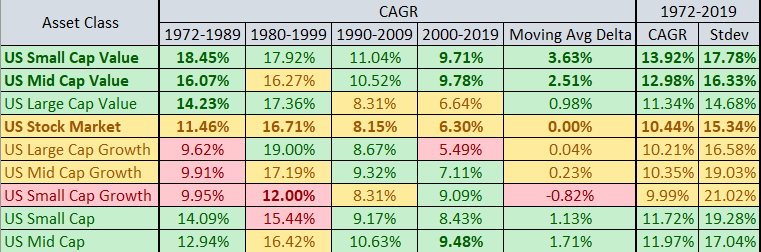
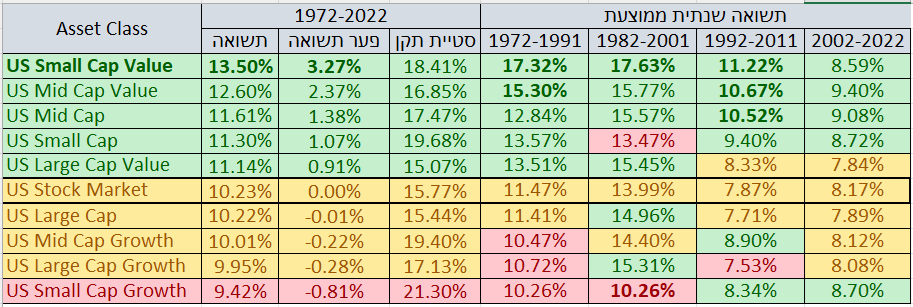
Updated size-and-value-matter blog post

diff --git a/blog/size-and-value-matter.html b/blog/size-and-value-matter.html
@@ -81,51 +81,103 @@
 <div class="coffee-span-12 header">
 <h3 class="heading-1" style="direction: rtl; font-size: 40px;">הגודל כן קובע! (אבל גם הערך חשוב)</h3>
 <br>
-<p class="paragraph" style="font-size:12px;">פורסם בתאריך 21.4.2020, עודכן בתאריך 5.10.2020</p>
+<p class="paragraph" style="font-size:12px;">פורסם בתאריך 21.4.2020, עודכן בתאריך 5.10.2023</p>
 <p class="paragraph" style="font-size:12px;">התכנים בפוסט זה, כמו כל שאר התכנים בבלוג, הינם תכנים לימודיים במהותם, הם אינם מהווים ייעוץ או המלצה לביצוע פעולה בנייר ערך, ואין לראות בהם תחליף לייעוץ השקעות ו/או ייעוץ פנסיוני המתחשב בצרכיו הייחודיים של כל אדם.</p>
-<p class="paragraph">לגרסא עדכנית יותר של הפוסט <a target="_blank" href="https://www.facebook.com/groups/israel.passive.investors/permalink/686012805751777/">לחצו כאן</a>.</p>
-<p class="paragraph">האם פקטור הגודל ופקטור הערך יכולים לייצר לנו תשואות עודפות לאורך זמן על פני תשואת כלל השוק? בקצרה כן, אבל בתנאים מסוימים. המשיכו לקרוא לקבלת התמונה המלאה.</p>
-<p class="paragraph" style="font-size:22px;">קצת רקע על פקטור הגודל והערך והאם הם עדיין רלוונטיים</p>
-<p class="paragraph">רבות דובר על תחום הפקטורים והנושא נידון בין היתר <a target="_blank" href="https://www.hasolidit.com/%D7%97%D7%A9%D7%99%D7%A4%D7%94-%D7%9C%D7%A4%D7%A7%D7%98%D7%95%D7%A8%D7%99%D7%9D-%D7%94%D7%A1%D7%95%D7%93-%D7%9C%D7%94%D7%A9%D7%91%D7%97%D7%AA-%D7%94%D7%AA%D7%A9%D7%95%D7%90%D7%94">אצל הסולידית</a>, <a target="_blank" href="https://www.youtube.com/watch?v=2MVSsVi1_e4">אצל Ben Felix</a> ואחרים. הפקטורים הם פרמטרים ייחודיים המבחינים קבוצות מניות מסוימות, ולאורך השנים נבחנו אותן קבוצות מניות אל מול מדד השוק הכולל (Weighted Average Total Market), ובחנו את התשואה והסיכון שלהם לטווח הארוך. שני הפקטורים הידועים הם פקטור הגודל והערך, ששנים ארוכות של סטטיסטיקה הראו <b>תשואה עודפת באופן מובהק סטטיסטית</b> לשני הפקטורים האלה על פני תשואת כלל השוק. בעבר חשבו שהם מייצרים alpha, כלומר תוספת תשואה "בחינם", אך מחקרי המשך גילו כי אין ארוחות חינם, <b>והתשואה העודפת מגיעה בעקבות סיכון גבוה יותר</b> (כאשר משקיעים בפיזור רחב באותם פקטורים, הכוונה במילה "סיכון" היא לתנודתיות גבוהה יותר, אבל לא לחשש מאובדן מוחלט של הכסף).</p>
-<p class="paragraph"><b>פקטור ה-size</b> מוגדר בספרות האקדמית כ-SMB (Small Minus Big) והוא מראה שמניות קטנות (בעלות שווי שוק נמוך) משיגות תשואה גבוהה יותר לטווח הארוך ממניות גדולות (בעלות שווי שוק גבוה).</p>
-<p class="paragraph"><b>פקטור הערך</b> מוגדר בספרות האקדמית כ-HML (High Minus Low) והוא מגדיר כי חברות שהרווחיות שלהן בספרים גבוהה ביחס למחירן הנוכחי (זה בעצם יחס הפוך למדדים כמו price/earnings, price/book ואחרים, כלומר מכפילים נמוכים), משיגות תשואות גבוהות יותר לטווח הארוך ממניות עם יחס נמוך בין הרווחיות למחיר המניה (כלומר מכפילים גבוהים). אחת הסיבות לכך היא במשקל העודף שהציבור והמשקיעים המוסדיים נותנים לחברות הגדולות והמגניבות, ונוטים להעריך בחסר מניות שפחות מציתות את הדמיון.</p>
-<p class="paragraph">המניות "ההפוכות" למניות ערך מוגדרות כמניות צמיחה (Growth) – כלומר מניות שצופים עבורן צמיחה גבוהה מהממוצע. בעצם לא מדובר פה בדיוק על הפכים מוחלטים (כמו מניות גדולות מול קטנות), אלא יש כל מיני מאפיינים שאופייניים למניות צמיחה ומאפיינים שאופייניים למניות ערך. בגלל המצב הזה יש כאן הרבה מקום לשיקול דעת – אילו מאפיינים לקחת, איזה משקל נותנים לכל אחד, כמה אחורה מודדים אותם (למשל האם למדוד את ה-price/earnings בשנה האחרונה, ב-3 שנים האחרונות או ב-5 שנים האחרונות וכו'). כשיש מקום לשיקול דעת, עצם החלוקה בין סוגי המניות נכנס למחוזות ההשקעה האקטיבית. יחד עם זאת, קיימים מדדים וקרנות של מניות ערך או מניות צמיחה, אשר הגדירו <b>נוסחא</b> לניקוד כל מניה לפי מאפייני ה-Value/Growth ומיינו אותן על ציר. כך ניתן להפריד אוטומטית, וללא שיקול דעת, בין המניות שהן מניות ערך מובהקות, לבין מניות שהן מניות צמיחה מובהקות, ולבין מניות שהן לא מובהקות לשום כיוון. כשיש נוסחא וכללים ברורים, ואין שיקול דעת למנהל הקרן, זו בעצם השקעה פאסיבית לכל דבר ועניין.</p>
-<p class="paragraph">כמובן שניתן להגדיר את הנוסחא בדרכים אחרות (למשל להקצות משקלות שונים לפרמטרים), אבל גם אם שתי קרנות/שני מדדים יגדירו נוסחאות שונות, שמצידן יגדירו חלוקה קצת שונה של המניות לקבוצות, סביר להניח שהחלוקה תהיה מאוד קרובה, ובפיזור על פני מאות/אלפי מניות אין לכך כמעט משמעות – שני המדדים/הקרנות צפויים להשיג תשואה כמעט זהה לאורך זמן.</p>
-<p class="paragraph">מקובל לומר שמדדי מניות רחבים כוללים שילוב (Blend) של מניות ערך ומניות צמיחה, בחלוקה שווה פחות או יותר. המשקל של מניות קטנות במדדים הרחבים הוא פחות מ-10%, בגלל שהמדדים בנויים לפי שווי שוק ונותנים משקל גבוה מאוד למניות עם שווי השוק הגדול. שני הפקטורים הללו מגדירים את החלוקה המקובלת ל-Asset Classes, לפי ה-Grid המתייחס לציר ה-Market Cap (Large, Medium, Small) ולציר ה-Style (Value/Growth/Blend). נוכל לקחת כדוגמא את ה-Grid של הקרן הפופולרית VT, שעוקבת אחרי מדד FTSE Global All Cap Index, שמהווה one stop shop לכל העולם כולו (כל השווקים – מפותחים ומתפתחים כאחד, מניות בכל הגדלים, ושילוב של מניות צמיחה ומניות ערך).</p>
-<p class="paragraph">בציר ה-Style יש לנו Blend ובציר ה-Market Cap מסומן Large, מהסיבה הפשוטה שהמניות הגדולות מקבלות את מרבית המשקל (כ-80%) במדדים שכוללים מניות מכל הגדלים (ועוד בערך 10% למניות בינוניות ו-10% נוספים למניות קטנות).</p>
+<br>
+<p class="paragraph">איך נוכל להגדיל את תשואת התיק לטווח הארוך באופן פאסיבי, מושכל, ומבוסס על נתונים? השימוש בפקטורים הוא עיקרון חשוב בתכנון התיק שלנו, והוא מאפשר לנו להגדיל את הסיכון באופן מושכל, כך שבסבירות גבוהה מאוד נגדיל גם את התשואה.</p>
+<p class="paragraph" style="text-align: center;"><img src="../images/Airbaoon.jpg" alt="Airbaoons"></p>
+<br>
+<p class="paragraph" style="font-size:22px;">מה זה בכלל פקטורים?</p>
+<p class="paragraph">פקטורים הם מאפיינים ייחודיים שמאפשרים להבחין בין קבוצות של מניות מסוגים שונים. לאורך השנים חוקרים באקדמיה בחנו 🧐 קבוצות מניות מסוגים שונים והשוו בין התשואות והתנודתיות שלהן 📊, ובפרט בין הקבוצות השונות אל מול שוק המניות הכולל 🌍.</p>
+<p class="paragraph">שני הפקטורים המשמעותיים ביותר שהתגלו (ע"י זוכי פרס נובל יו'גין פאמה וקנט פרנץ') הם <b>פקטור הגודל (size) ופקטור הערך (value)</b>. מה כ"כ מיוחד בהם? שנים ארוכות של סטטיסטיקה הראו ששני הפקטורים האלה מייצרים <b>תשואה עודפת באופן מובהק סטטיסטית בהשוואה לתשואת כלל השוק</b>.</p>
+<p class="paragraph">בעבר חשבו שהפקטורים האלה מייצרים alpha, כלומר תוספת תשואה עודפת "בחינם". אך מחקרי המשך גילו, כצפוי, שאין ארוחות חינם 🍝, והתשואה העודפת מגיעה יחד עם תנודתיות גבוהה יותר.</p>
+<br>
+<p class="paragraph" style="font-size:22px;">האם מניות קטנות רווחיות יותר ממניות גדולות?</p>
+<p class="paragraph"><b>פקטור הגודל</b> מוגדר בספרות האקדמית כ-Small Minus Big (SMB). הנתונים הסטטיסטיים מראים שסגמנט המניות הקטנות 🤏 (בעלות שווי שוק נמוך) משיג <b>תשואה גבוהה יותר</b> לטווח הארוך מסגמנט המניות הגדולות (בעלות שווי שוק גבוה). זה לא קורה בכל שנה ושנה, וגם לא בכל עשור, אבל זה כן קורה רוב הזמן, ובמיוחד אם מסתכלים על פרק זמן מספיק ארוך.</p>
+<br>
+<p class="paragraph" style="font-size:22px;">למה מניות קטנות רווחיות יותר ממניות גדולות ומה זה אומר לגבי העתיד?</p>
+<p class="paragraph">כדי להסיק מסקנה ע"ס סטטיסטיקה יש להתייחס לשני גורמים:</p>
+<p class="paragraph">1.	נתונים סטטיסטיים ארוכי טווח שתומכים במסקנה.</p>
+<p class="paragraph">2.	הסבר תיאורטי מוצק שמניח את הדעת.</p>
+<p class="paragraph">נתונים סטטיסטיים בלבד לא מספיקים – אם למשל נגלה שסגמנט המניות שמתחילות באות B היה רווחי יותר מכל שאר המניות באופן מובהק סטטיסטית במשך 80 שנה, האם יש סיבה להאמין שזה ימשיך גם בעתיד ולעבור להשקיע רק במניות שמתחילות באות B? כמובן שלא, מדובר בעניין מקרי לחלוטין!</p>
+<p class="paragraph">לעומת זאת, ההנחה שסגמנט המניות הקטנות ימשיך להניב תשואה גבוהה יותר מסגמנט המניות הגדולות עונה על שני הגורמים – יש גם נתונים סטטיסטיים תומכים, וגם הסבר תיאורטי מניח את הדעת:</p>
+<p class="paragraph">1.	כאמור, נתונים סטטיסטיים של עשרות שנים מראים תשואה עודפת באופן מובהק סטטיסטית של המניות הקטנות מול המניות הגדולות (פרטים בהמשך).</p>
+<p class="paragraph">2.	ההסבר התיאורטי למה מניות קטנות רווחיות יותר ממניות גדולות הוא די ברור – יש להן יותר לאן לצמוח!  כלומר קצב הצמיחה של חברות קטנות גבוה מזה של חברות גדולות ומבוססות. זה כמובן לא אומר שכל מניה קטנה תהיה רווחית יותר מכל מניה גדולה. טווח התוצאות האפשרי לכל מניה פרטנית הוא עצום – מעליות של אלפי אחוזים ועד קריסה ל-0 ופשיטת רגל. ככה שהכלל מתייחס רק לסגמנט הכולל של מניות קטנות מול הסגמנט הכולל של המניות הגדולות.</p>
+<p class="paragraph">אז אמנם אף אחד לא יודע מה יהיה בעתיד, אבל ניתן להניח שבסבירות גבוהה סגמנט המניות הקטנות ימשיך להוביל בתשואות גם בעתיד.</p>
+<br>
+<p class="paragraph" style="font-size:22px;">האם מניות זולות רווחיות יותר ממניות יקרות?</p>
+<p class="paragraph"><b>פקטור הערך (value)</b> מוגדר בספרות האקדמית כ-High Minus Low (HML). הנתונים הסטטיסטיים מראים שסגמנט המניות ה"זולות" משיג תשואה גבוהה יותר לטווח הארוך ממניות "יקרות".</p>
+<p class="paragraph">מניות זולות, המכונות גם <b>מניות ערך</b> (value stocks), מוגדרות ככאלה שמחירן הנוכחי בבורסה נמוך ביחס לרווחיות שלהן בספרים. היחס הזה נמדד בין היתר באמצעות מכפילים כגון price/earnings, price/book ופרמטרים אחרים, כאשר המניות הזולות מתאפיינות ב<b>מכפילים נמוכים</b>.</p>
+<p class="paragraph">המניות ההפוכות למניות ערך מוגדרות כ<b>מניות צמיחה</b> (growth stocks). הן נחשבות כיקרות ומתאפיינות ב<b>מכפילים גבוהים</b>.</p>
+<p class="paragraph">בעצם לא מדובר בהפכים מוחלטים 🔁. ההגדרה למניות צמיחה היא מניות שצופים להן צמיחה גבוהה. כיוון שאותן חברות הראו צמיחה גבוהה בעבר 📈, צופים להן המשך צמיחה גבוהה <b>בעתיד</b>, וכאשר הצפי מחברה מסוימת הוא לצמיחה גבוהה בעתיד – המשקיעים מוכנים לשלם מחיר גבוה יותר על המניה שלה כבר היום, מה שמייקר את מחיר המניה <b>בהווה</b>. זאת הסיבה שמניות צמיחה נחשבות "יקרות" ומתאפיינות במחירים גבוהים ביחס לרווחיות האמיתית של החברות.</p>
+<br>
+<p class="paragraph" style="font-size:22px;">איך מחלקים בין מניות ערך למניות צמיחה?</p>
+<p class="paragraph">ישנם כל מיני מאפיינים למניות צמיחה ומאפיינים למניות ערך, והרבה מקום לשיקול דעת – על אילו מאפיינים להסתמך, איזה משקל לתת לכל מאפיין, כמה אחורה מודדים (למשל האם למדוד את ה-price/earnings בשנה האחרונה, ב-3 שנים האחרונות או ב-5 שנים האחרונות וכו'). כשיש מקום לשיקול דעת, עצם החלוקה בין סוגי המניות נכנס למחוזות ההשקעה האקטיבית.</p>
+<p class="paragraph">יחד עם זאת, קיימים <b>מדדים של מניות ערך ומדדים של מניות צמיחה</b>, אשר הגדירו <b>נוסחה</b> לניקוד כל מניה לפי מאפייני ה-Value/Growth ומיינו אותן על ציר. כך ניתן להפריד אוטומטית, וללא שיקול דעת של מנהל השקעות, בין המניות שהן מניות ערך מובהקות, לבין מניות שהן מניות צמיחה מובהקות, ולבין מניות שהן לא מובהקות לשום כיוון. כשיש נוסחה וכללים ברורים, ואין שיקול דעת למנהל הקרן, זו בעצם השקעה פאסיבית לכל דבר ועניין.</p>
+<br>
+<p class="paragraph" style="font-size:22px;"></p>
+<p class="paragraph">כאמור הנתונים הסטטיסטיים מראים תשואה עודפת של המניות הזולות (מניות ערך) מול המניות היקרות (מניות צמיחה). אבל אמרנו שלא מספיק להסתמך רק על הסטטיסטיקה וצריך להיות גם הסבר תיאורטי מוצק.</p>
+<p class="paragraph">ההסבר התיאורטי לעדיפות בתשואות של מניות ערך מסתמך על העיקרון ש:</p>
+<p class="paragraph" style="text-align: center;">Higher Valuations --> Lower Expected Returns</p>
+<p class="paragraph" style="text-align: center;">Lower Valuations --> Higher Expected Returns</p>
+<p class="paragraph">ובתרגום חופשי – כאשר מחיר המניה גבוה בהווה, הצפי הוא לתשואות נמוכות יותר בעתיד, וההיפך – כאשר מחיר המניה נמוך בהווה הצפי הוא לתשואות גבוהות יותר בעתיד.</p>
+<p class="paragraph">מניות הצמיחה אמנם הציגו צמיחה גבוהה בעבר, ובהחלט יכול להיות שביצועי חברות הצמיחה יהיו טובים מאוד גם בעתיד. אבל פעמים רבות קורה שהמחיר של מניית צמיחה קפץ כ"כ הרבה בגלל הציפיות לעתיד, עד שנוצר <b>נתק בין ביצועי החברה בפועל למחיר המניה, והמניה מתומחרת יותר מדי גבוה</b>.</p>
+<p class="paragraph">חשוב להבין ש<b>החברה והמניה זה לא אותו דבר</b>. כשנוצר נתק בין ביצועי החברה למחיר המניה, גם ביצועים טובים של <b>החברה</b>, לא מעידים בהכרח על ביצועים טובים של <b>המניה</b>. החברה יכולה להמשיך להרוויח ולצמוח, אבל מניית החברה תדשדש ואף תרד.</p>
+<p class="paragraph">אותו עיקרון, רק הפוך, פועל על מניות ערך. מניות ערך מתומחרות בזול מסיבה מסוימת, ככל הנראה בגלל קשיים ובעיות שמשפיעים על החברה, ולכן הן נחשבות להשקעה מסוכנת יותר. אבל יכול להיות שגם במקרה הזה נוצר <b>נתק בין ביצועי החברה בפועל למחיר המניה, והמניה מתומחרת נמוך מדי</b>, כלומר השוק מעריך את הקשיים של החברה יתר על המידה, וביצועי המניה בעתיד יהיו טובים יותר מהצפי של השוק. גם אם הביצועים של החברה בפועל לא יהיו מזהירים, ביצועי המניה יכולים להיות טובים מאוד, כיוון שביצועי החברה בפועל היו גבוהים מהציפיות.</p>
+<p class="paragraph">אחת הסיבות לכך שנוצר תמחור גבוה מדי למניות צמיחה ונמוך מדי למניות ערך, היא בגלל התלהבות גבוהה ולעיתים מוגזמת של המשקיעים מחברות הצמיחה המגניבות 😎, שהן לרוב חברות טכנולוגיה מוכרות ופופולריות, ומנגד המשקיעים נוטים להתעלם ואף לזלזל במניות "משעממות" 🥱 שפחות מציתות את הדמיון.</p>
+<p class="paragraph">אבל כמשקיעים הפופולריות של המניות לא צריכה לעניין אותנו יותר מדי. עדיף לנו לקנות בזול מניה של חברה שהיא רק "בסדר" מאשר לשלם מחיר מאוד גבוה על החברה הטובה ביותר בעולם.</p>
+<p class="paragraph">גם במקרה של מניות ערך מול מניות צמיחה – לא ניתן להגיד שום דבר על מניית צמיחה ספציפית מול מניית ערך ספציפית. אבל כשמסתכלים על כל מניות הערך כמכלול מול כל מניות הצמיחה כמכלול – אז רוב הזמן, ובמיוחד לטווח הארוך, התשואות של מניות הערך היו עדיפות על התשואות של מניות הצמיחה, וסביר מאוד להניח שכך יקרה גם בעתיד.</p>
+<br>
+<p class="paragraph" style="font-size:22px;">ציר ה-Market Cap וציר ה-Style</p>
+<p class="paragraph">שוק המניות העולמי כולל את כל המניות מכל הסוגים – מניות גדולות, בינוניות וקטנות, ושילוב (Blend) של מניות ערך ומניות צמיחה.</p>
+<p class="paragraph">החלוקה בין מניות גדולות-בינוניות-קטנות ובין מניות ערך למניות צמיחה משתנה בין חברות המדדים השונות (S&P, FTSE, MSCI). יחד עם זאת ההבדלים באופן החלוקה לא מאוד גדולים, וניתן לציין ש:</p>
+<p class="paragraph">•	המניות הגדולות תופסות כ-70% מכלל השוק. זה קורה בגלל שהמדדים בנויים לפי שווי שוק, ככה שהחברות הגדולות יותר תופסות נתח גבוה יותר מהמדד.</p>
+<p class="paragraph">•	המניות הבינוניות תופסות כ-15% מכלל השוק.</p>
+<p class="paragraph">•	המניות הקטנות תופסות אף הן כ-15% מכלל השוק.</p>
+<p class="paragraph">•	החלוקה בין מניות ערך לבין מניות צמיחה היא בערך חצי-חצי, ויש גם מניות שלא מאוד מובהקות לכיוון של ערך או צמיחה.</p>
+<p class="paragraph">מקובל לחלק את שוק המניות לתתי אפיקים שונים (Asset Classes) באמצעות <b>טבלת Style box של 3x3</b>. הטבלה הזאת מוצגת פעמים רבות בהקשר של מדדים וקרנות עוקבות מדדים.</p>
+<p class="paragraph">הציר האנכי של הטבלה הוא ציר ה-Market Cap, כלומר שווי השוק, והוא מתחלק ל-Large, Medium, Small. הציר האופקי הוא ציר ה-Style, כלומר סוג המניות, והוא מתחלק ל-Value, Blend, Growth, שהן מניות ערך, מניות צמיחה, ו-Blend שהוא השילוב ביניהם.</p>
 <p class="paragraph" style="text-align: center;"><img src="../images/style-cap-grid.png" alt="style-cap-grid"></p>
-<p class="paragraph" style="font-size:22px;">מה היתרון לפקטור הגודל והערך לאורך השנים, ובפרט בתקופה האחרונה</p>
-<p class="paragraph">המידע על הפקטורים האלה כולל <a target="_blank" href="https://earlyretirementnow.com/2019/06/12/my-thoughts-on-small-cap-and-value-stocks/">סטטיסטיקה ארוכה של כמעט 100 שנה</a> (בשוק האמריקאי בלבד, יש סטטיסטיקה הרבה יותר קצרה בשוק הגלובלי – עוד על כך בהמשך), והנתונים מראים יתרון של 1.9% אחוז לשנה לפקטור הגודל, ו-3.7% לשנה לפקטור הערך. יחד עם זאת, ב-35 השנים האחרונות לא היה הבדל בין מניות גדולות לקטנות, וב-14 השנים האחרונות מניות הערך דווקא פיגרו אחרי מניות הצמיחה בכ-3.6%.</p>
-<p class="paragraph" style="text-align: center;"><img src="https://i2.wp.com/earlyretirementnow.com/wp-content/uploads/2019/06/ValueSizePremium-Table02.png?w=738&ssl=1" alt="factor stats"></p>
-<p class="paragraph">רבים טוענים שהסיבה לביצועי החסר של מניות הערך, או לכך שכבר זמן רב אין תשואה עודפת למניות קטנות על פני הגדולות, היא שמאז שפורסמו מחקרים בנושא ומשקיעים הפכו להיות מודעים אליהם, אז הפרמיה שלהם על כלל השוק כבר לא קיימת, או לפחות לא צפויה להיות גבוהה כבעבר, וזה אכן תרחיש אפשרי. <a target="_blank" href="https://www.youtube.com/watch?v=kYO7xrHhqsY">בן פליקס למשל לא מסכים עם הקביעה הזו</a>, ומציין שכמו שבעבר היו תקופות ארוכות שתשואת האג"חים היתה גבוהה מהמניות, כך גם היו תקופות ארוכות של ביצועי חסר למניות ערך, אבל אין להסיק מכך לגבי התשואות לטווחים יותר ארוכים.</p>
-<p class="paragraph"><a target="_blank" href="https://valuestockgeek.com/2020/02/16/the-case-against-100-us-stock-indexing/?fbclid=IwAR2wSWPF2RzZUNtZG90OLmzyx3x3o-Le0DY6vGC-7qTMqt5LNlJivhQA-3E">סיבה אפשרית נוספת לכך שכבר אין פרמיה בולטת לשני הפקטורים הללו</a> היא שגם היסטורית בתקופות של שוק שורי חזק (ואולי אף בועתי), השוק מובל ע"י מניות הצמיחה הגדולות (כמו מניות הטכנולוגיה ה"סקסיות"), אבל בתקופות שאינן שוק שורי חזק במיוחד (שוק שורי עם תשואות "נורמליות" שקרובות לממוצע הרב-שנתי, שוק שורי חלש, שוק מדשדש או שוק דובי), שם הפרמיות של גודל וערך באות במיוחד לידי ביטוי. כיוון שב-30 השנים האחרונות היו שני עשורים של שוק שורי חזק (1990-1999 ו-2010-2019) ובתווך עשור אחד דובי (2000-2009), אז התוצאות אכן נותנות יתרון למניות הגדולות ומניות הצמיחה, על פני מניות הערך והמניות הקטנות.</p>
-<p class="paragraph">הסבר נוסף הוא שהניתוח של כל פקטור בנפרד לא מציג את כל התמונה. אם נכנסים מעט יותר לעומק <b>ומנתחים את שני הפקטורים ביחד</b> (כלומר את 9 הקוביות ב-Grid), מגלים כי <b>היתרון המרכזי בא לידי ביטוי בשילוב שני הפקטורים</b>, כלומר ב-Asset Classes של Small Cap Value ו-Mid Cap Value, כפי שמשתקף בטבלה שלהלן:</p>
-<p class="paragraph" style="text-align: center;"><img src="../images/factors-CAGR.png" alt="factors-CAGR"></p>
-<p class="paragraph">הטבלה מראה ש-Small Cap Value ו-Mid Cap Value השיגו, החל מ-1972, תשואה עודפת משמעותית על התשואה הכוללת של השוק האמריקאי (3.5% ו-2.5% בהתאמה). לעומת זאת Small Cap Growth ו-Mid Cap Growth משיגים תשואה דומה לתשואת כלל השוק ואף מעט נמוכה יותר, ובעצם "גוררים אחורה" את ה-Small Cap וה-Mid Cap (שמכילים גם Value וגם Growth). לעומת זאת, בעשורים 1990-1999 ו-2010-2019, בהם היה שוק שורי חזק, ה-Small/Mid Cap Value השיגו תשואה נמוכה משמעותית מכלל השוק, ומה-Large Cap Growth בפרט.</p>
-<p class="paragraph">אז החלטתי לבדוק את העניין קצת יותר לעומק ולהסתכל על פרקי זמן של 20 שנה החל מ-1972 באמצעות הכלי המצוין <a target="_blank" href="https://www.portfoliovisualizer.com/">portfolio visualizer</a>, כיוון שהסתכלות על עשור ספציפי, או על תזמונים מאוד מסויימים, יכולה לעוות את המציאות. הטבלה שלהלן מציגה את התשואות של כל ה-Asset Classes בתקופות של 20 שנה (פרט לראשונה), את התשואה הכוללת על כל התקופה, ומעין "ממוצע נע" של ההפרש מול תשואת השוק בכל התקופות השונות של 20 שבדקתי (עם חפיפה של עשור בין התקופות). בנוסף מוצגת התשואה הכוללת וסטיית התקן הכוללת.</p>
-<p class="paragraph">תא סומן בירוק כאשר התשואה בו גבוהה מ-0.5% מתשואת כלל השוק לאותה תקופה, ובירוק מודגש כאשר התשואה גבוהה מ-2.5% מתשואת כלל השוק. בדומה, תא סומן בוורוד כאשר התשואה בו נמוכה ב-0.5% לפחות מתשואת כלל השוק לאותה תקופה, ובוורוד מודגש כאשר התשואה נמוכה ב-2.5% לפחות מתשואת כלל השוק. תשואות עודפות/פחותות של 0.5% לעומת תשואת כלל השוק סומנו בצהוב ניטרלי.</p>
+<p class="paragraph">נוכל לקחת כדוגמא את ה-Grid של הקרן הפופולרית VT (ראו להלן), שעוקבת אחרי מדד FTSE Global All Cap Index, שמהווה one stop shop לכל שוק המניות העולמי (כל השווקים – מפותחים ומתפתחים כאחד, מניות בכל הגדלים, ושילוב של מניות צמיחה ומניות ערך).</p>
+<p class="paragraph">כיוון שמדד FTSE Global All Cap Index כולל (כמעט) את כל שוק המניות העולמי, אז בעצם כל הקוביות בטבלה אמורות להיות מסומנות, כי הקרן משקיעה בכל הסגמנטים. הסיבה שמודגש רק התא של Large & Blend היא שמדובר בחלק העיקרי במדד – המניות הגדולות תופסות את רוב המשקל במדד, וכיוון שיש בו גם מניות ערך וגם מניות צמיחה, מסומן Blend.</p>
+<br>
+<p class="paragraph" style="font-size:22px;">ועכשיו לנתונים</p>
+<p class="paragraph">אחרי שהבנו את אופן החלוקה לתתי אפיקים, מעניין למדוד את התשואות והתנודתיות של כל אפיק ואפיק: מניות גדולות, בינוניות וקטנות, מניות ערך, מניות צמיחה, והשילובים ביניהם. כלומר לבחון את כל השורות והעמודות בטבלה, וגם את כל התאים הספציפיים שלה.</p>
+<p class="paragraph">אז החלטתי לבצע בדיקה מעמיקה 🔍. באמצעות הכלי המצוין <a target="_blank" href="https://www.portfoliovisualizer.com/">portfolio visualizer</a> בחנתי את הנתונים על פני 51 שנה, בין 1972-2022. למתעניינים – תחת Backtest Portfolio בחרתי ב-Backtest Asset Allocation.</p>
+<p class="paragraph">לא הסתפקתי רק בתשואה ובסטיית התקן הממוצעת לאורך כל התקופה, אלא רציתי לבחון גם מקטעים קצרים יותר, אבל לא קצרים מדי כיוון שהסתכלות על פרקי זמן קצרים מדי יכולה לעוות את המציאות. כיוון שאפילו עשור היא לא תקופה מייצגת בשוק המניות רציתי לבחון תקופות מספיק ארוכות. לכן בחנתי את כל התקופות של 20 שנה מ-1972 ואילך, כאשר בין תקופה לתקופה יש חפיפה של עשור, כלומר בחנתי את 1972-1991, 1982-2001, 1992-2011 ו-2002-2022 (האחרונה היא תקופה של 21 שנה).</p>
+<p class="paragraph">את התוצאות גיבשתי <a target="_blank" href="https://docs.google.com/spreadsheets/d/1BS5a9yzocyCHT3lfQ03CNILlUtvv6kt1/edit?usp=sharing&ouid=102460435024658688368&rtpof=true&sd=true">בקובץ אקסל</a> שתוכלו לעיין בו (ניתן לשמור עותק מקומי, נא לא לבקש הרשאת עריכה). הלשונית הראשונה מציגה את ה-Asset Classes בשוק האמריקאי, והשנייה את ה-Asset Classes מחוץ לארה"ב.</p>
+<p class="paragraph">להלן התוצאות של השוק האמריקאי:</p>
 <p class="paragraph" style="text-align: center;"><img src="../images/us-assets-breakdown.png" alt="us-assets-breakdown"></p>
+<p class="paragraph">השורות בטבלה ממוינות מהאפיק הרווחי ביותר ועד זה שהכי פחות רווחי, כאשר באמצע מופיע כלל השוק האמריקאי (US Stock Market). עמודת התשואה מייצגת את התשואה השנתית הממוצעת, פער התשואה מייצג את הפער השנתי הממוצע לעומת כלל השוק, וסטיית התקן הממוצעת מייצגת את התנודתיות.</p>
+<p class="paragraph">תא סומן בירוק כאשר התשואה בו גבוהה מ-0.5% מתשואת כלל השוק לאותה תקופה, ובירוק מודגש כאשר התשואה גבוהה מ-2.5% מתשואת כלל השוק. בדומה, תא סומן בוורוד כאשר התשואה בו נמוכה ב-0.5% לפחות מתשואת כלל השוק לאותה תקופה, ובוורוד מודגש כאשר התשואה נמוכה ב-2.5% לפחות מתשואת כלל השוק. תשואות בטווח של עד 0.5% לעומת תשואת כלל השוק סומנו בצהוב ניטרלי.</p>
+<br>
 <p class="paragraph" style="font-size:22px;">כמה תובנות מהמיני-מחקר שלי</p>
-<p class="paragraph">קודם כל ניתן לראות בצורה ברורה ש-Small Cap Value ו-Mid Cap Value השיגו תשואות טובות יותר מכלל השוק לאורך כל אחת מהתקופות(!), ולרוב בפער משמעותי, כולל בשני המקטעים האחרונים הסמוכים להיום, אך כמובן עם תנודתיות מוגברת. ה-Large Cap Value גם הוא רווחי יותר מכלל השוק, אבל בצורה פחות משמעותית, ובשתי התקופות האחרונות היה די שקול לתשואת השוק כולו. מכאן ניתן להסיק שה-Value Factor ממש לא מת, גם לא בתקופה האחרונה, אבל נוכח במיוחד במניות הקטנות והבינוניות.</p>
-<p class="paragraph">שנית, ה-Large/Mid Cap Growth די שקולים לכלל השוק, וה-Small Cap Growth אפילו נחות ממנו. כלומר ה-Growth לא מייצר תשואה עודפת, למרות תנודתיות גבוהה מכלל השוק, ואפילו גבוהה מזו של ה-Value.</p>
-<p class="paragraph">שלישית, ניתן לראות ש-Small Cap ו-Mid Cap היו מוצלחים יותר ב-3 מ-4 התקופות, ובפרט בשתי התקופות האחרונות, וזאת למרות הניטרליות/נחיתות של מניות ה-Mid Cap Growth וה-Small Cap Growth, שגוררים את התשואות של Mid Cap Value ו-Small Cap Value לאחור.</p>
-<p class="paragraph" style="font-size:22px;">המסקנות שלי</p>
-<p class="paragraph">1.	התשואה העודפת קיימת באופן מובהק <b>בשילוב ה-value factor וה-size factor ביחד</b>.</p>
-<p class="paragraph">2.	אם מסתכלים רק על פקטור ה-Value ב-30 השנים האחרונות, הוא כמעט ולא קיים, כיוון שכאשר לוקחים את כל מניות ה-Value ללא אבחנת גודל, מרבית המשקל הולך למניות הגדולות, שבו לא היה יתרון משמעותי, וההשפעה של מניות בינוניות וקטנות פחות מורגשת.</p>
-<p class="paragraph">3.	אם מסתכלים רק על פקטור ה-size הוא עדיין קיים, גם בתקופות האחרונות, הן במניות קטנות והן בבינוניות. אבל הוא לא נובע מחלק ה-growth של המניות הגדולות והבינוניות (שמשיגים תשואה דומה/נמוכה לתשואת כלל השוק), אלא אך ורק בגלל חלק ה-value שלו.</p>
-<p class="paragraph">4.	אופרטיבית – כדאי לטעמי לתת משקל יתר לשני Asset Classes בתיק שלנו בהשוואה למשקלם במדד העולמי הרחב: US Small Cap Value ו-US Mid Cap Value. אפשר גם לתת מעט משקל יתר ל-Value Factor כמכלול ול-Size Factor כמכלול, אבל זה לא כזה מהותי.</p>
-<p class="paragraph">5.	ישנם משקיעים פאסיביים שמעוניינים להשקיע אך ורק במדד גלובלי רחב של כלל השוק, בלי לנסות לתת משקל יתר לאף Asset Class, אף מדינה, אף סקטור, ואף מניה ספציפית, מהסיבה העיקרית שתשואות העבר אינן מעידות על העתיד, וגם אם Asset Class מסוים היה רווחי לאורך תקופה ארוכה, אין ערובה לכך שימשיך להיות רווחי בעתיד (במיוחד אם פורסמו מחקרים בתחום שחושפים את תשואות היתר שלו). יחד עם זאת, אחרי שעשינו break down יותר מעמיק ל-Asset Classes, ומתברר שהנתונים עלSmall Cap Value ו-Mid Cap Value כ"כ מובהקים לאורך כל תקופה של 20 שנה, אני לא רואה שום חשש להקצות להם משקל יתר בתיק. לא בהגזמה, כי אולי בעתיד התוצאות תהיינה פחות טובות, אבל לטעמי התרחיש הגרוע ביותר עבורם לתקופות של 20 שנה ויותר, הוא להשיג רק את תשואת השוק או תשואה מעט נמוכה יותר. אני יכול לחיות בשלום עם הסיכון הזה, כאשר <b>הרבה יותר סביר לטעמי להשיג תשואות עודפות</b>.</p>
-<p class="paragraph">6.	כיוון שיש סיכוי סביר לכל הפחות לתשואה עודפת, נעדיף לשייך את ה-Asset Classes הללו <b>דווקא לחשבון הפטור ממס</b>, כיוון שזה מגדיל בעקיפין את הטבת המס (עדיף שהאפיק הרווחי ביותר יהיה פטור ממס).</p>
-<p class="paragraph"><b>קרנות מתאימות שעוקבות אחר הפקטורים הללו</b>: מי שרוצה להשקיע בקרן אמריקאית (שחשופות למס עיזבון בחשבון הפרטי), יכול להשקיע למשל בקרנות של ואנגארד: <a target="_blank" href="https://investor.vanguard.com/etf/profile/VBR">VBR</a> עבור Small Cap Value ו-<a target="_blank" href="https://investor.vanguard.com/etf/profile/VOE">VOE</a> עבור Mid Cap Value, שתיהן בדמי ניהול של 0.07%. מי שרוצה להשקיע בקרן אירית (שמאפשרת הקטנת מיסוי על דיבידנדים מ-25% ל-15% ואינה חשופה למס עיזבון), יכול להשקיע ב<a target="_blank" href="https://www.ssga.com/uk/en_gb/intermediary/etfs/funds/spdr-msci-usa-small-cap-value-weighted-ucits-etf-zprv-gy">קרן של ספיידר</a> שעוקבת אחר מדד MSCI USA Small Cap Value Weighted Index בדמי ניהול של 0.3%. הקרן נסחרת בבורסת גרמניה תחת הסימול ZPRV (רישום ראשי) וכן בבורסת לונדון בדולרים תחת הסימול USSC (רישום משני בנפח מסחר קטן יותר). המדד אחריה היא עוקבת אינו מדד רק של מניות ערך קטנות, אלא מדד מבוסס שווי שוק של כל המניות הקטנות בארה"ב, שהמשקלות בו נבנו מחדש כך שהוא מקצה משקל גבוה יותר ככל שמאפייני ה-value של החברה (כמו price/book, price/earnings) מובהקים יותר. כלומר ככל שהחברה זולה יותר, כך היא מקבלת משקל גבוה יותר.</p>
-<p class="paragraph">אם נשווה בינה לבין VBR, אז מצד אחד ב-ZPRV/USSC יש גם מניות צמיחה קטנות ולא רק מניות ערך (היא כוללת 1,300 מניות לעומת 850 ב-VBR), אבל מצד שני היא נותנת חשיפה טובה יותר ל-value factor ע"י הקצאת משקל רב יותר למניות זולות יותר. זה בא לידי ביטוי בערכי price/book ו-price/earnings נמוכים יותר בהשוואה ל-VBR. ל-VBR יש אמנם יתרון בדמי הניהול (יתרון של 0.23%), אבל ב-ZPRV/USSC נוכל להקטין את המיסוי על דיבידנדים בשיעור דומה.</p>
-<p class="paragraph" style="font-size:22px;">פקטור ה-Size וה-Value בפיזור גלובלי</p>
-<p class="paragraph">על שאר העולם המפותח מלבד ארה"ב הסטטיסטיקה פחות ארוכה, אבל במחולל הגרפים של MSCI מצאתי נתונים לפי פקטורים החל מ-1995 (סה"כ 25 שנה).  מתוך הגרף הוצאתי את נק' הסיום ומתוכה חישבתי את ה-CAGR לכל התקופה. התשואות יותר נמוכות בהשוואה לארה"ב, אבל ההשוואה בין ה-Asset Classes מציגה נתונים מאוד דומים לארה"ב – הכי טובים הם Small Cap Value ו-Mid Cap Value, וגם ה-Small Cap, Mid Cap וה-Value בכלל מעט טובים יותר מאשר תשואת כלל השוק. זאת למרות שה-Growth בכל הגדלים נמוך יותר מתשואת השוק.</p>
-<p class="paragraph" style="text-align: center;"><img src="../images/global-assets-breakdown.png" alt="global-assets-breakdown"></p>
-<p class="paragraph">הנה הנתונים מתוך הגרף (בלי ה-Growth שמדדתי בנפרד כי האתר מגביל ל-6 מדדים בו-זמנית):</p>
-<p class="paragraph" style="text-align: center;"><img src="../images/global-assets-graph.png" alt="global-assets-graph"></p>
-<p class="paragraph">אז אם הנתונים דומים לארה"ב גם בשאר העולם המפותח, למה שלא ניתן מעט משקל עודף ל-Small Cap Value ול-Mid Cap Value גם בפלח זה של התיק? זה אכן היה מומלץ, אבל לצערי לא מצאתי אף קרן, אירית או אמריקאית, שעוקבת אחרי שני ה-Asset Classes האלה בפיזור עולמי. לא גלובלית ולא World ex US. פתרון חלקי שכן מסתכל על Small Cap Value מחוץ לארה"ב היא <a target="_blank" href="https://www.ssga.com/uk/en_gb/intermediary/etfs/funds/spdr-msci-europe-small-cap-value-weighted-ucits-etf-zprx-gy">הקרן האירית של ספיידר</a> שעוקבת אחר מדד MSCI Europe Small Cap Value Weighted Index בדמי ניהול 0.3%.  הקרן נסחרת בבורסת גרמניה ביורו תחת הסימול ZPRX (רישום ראשי), וכן בלונדון בליש"ט תחת הסימול EUSV (רישום משני, תפסיק להיסחר שם ב-30.10.2020). הקרן עוקבת אמנם רק אחרי אירופה ולא אחרי כל העולם המפותח שמחוץ לארה"ב, אבל היא עדיין מאפשרת לנו להוסיף פיזור גלובלי עבור ה-Asset Class של Small Cap Value. בדומה ל"אחותה" ZPRV/USSC, גם היא כוללת את כל המניות הקטנות, אך מקצה משקל יתר למניות ככל שמאפייני הערך שלהן מובהקים יותר.</p>
-<p class="paragraph">מה עוד אפשר לעשות כדי לנצל את הפקטורים הללו גם מחוץ לארה"ב? לתת מעט משקל יתר ל-Value Factor כמכלול ול-Size Factor כמכלול, כלומר ללכת על מניות Value גלובליות (למרות שהעיקר יופנה למניות גדולות, בהן היתרון כמעט ולא בא לידי ביטוי), וללכת על מניות Small Cap גלובליות (למרות שהן כוללות גם מניות Small Cap Growth שפוגעות בתשואה). עבור מניות קטנות גלובליות ניתן לבחור את הקרן האירית <a target="_blank" href="https://www.blackrock.com/uk/individual/products/296576/ishares-msci-world-small-cap-ucits-etf-usd-(acc)-fund">WSML</a> של בלאקרוק בדמי ניהול 0.35% שעוקבת אחר מדד MSCI World Small Cap Index, או (עדיף) את <a target="_blank" href="https://global.vanguard.com/portal/instl/ch/en/product.html#/fundDetail/mf/portId=9158/assetCode=equity/?overview">קרן הנאמנות של ואנגארד</a> שעוקבת אחרי אותו מדד (ISIN: IE00B3X1NT05) בדמי ניהול 0.29%. עבור מניות ערך גלובליות, ניתן לבחור בקרן <a target="_blank" href="https://www.blackrock.com/uk/individual/products/270048/ishares-msci-world-value-factor-ucits-etf">IWVL</a> של בלאקרוק בדמי ניהול 0.3%.</p>
-<p class="paragraph">האמור בפוסט אינו מהווה ייעוץ השקעות או המלצה לביצוע פעולה בנייר ערך כזה או אחר.</p>
+<p class="paragraph">1.	קודם כל ניתן לראות בצורה ברורה ש-Small Cap Value ו-Mid Cap Value השיגו תשואות טובות יותר מכלל השוק לאורך כל אחת מהתקופות(!), ולרוב בפער משמעותי – 3.27% ו-2.37% מעל כלל השוק בממוצע, כולל בשני המקטעים האחרונים הסמוכים להיום, אך כמובן עם תנודתיות מוגברת.</p>
+<p class="paragraph">2.	ה-Large Cap Value גם הוא רווחי יותר מכלל השוק, אבל בפער פחות משמעותי, ובשתי התקופות האחרונות היה די שקול לתשואת השוק כולו.</p>
+<p class="paragraph">3.	ה-Small Cap וה-Mid Cap כמכלול, כלומר מניות קטנות/בינוניות שכוללות גם מניות ערך וגם מניות צמיחה, הציגו תשואה עודפת על כלל השוק. יחד עם זאת, העמקה בנתונים מראה שהתשואה העודפת של Small Cap ומ-Mid Cap נובעת בעיקר מסגמנט ה-value שלהם, כלומר מ-Small/Mid Cap Value.</p>
+<p class="paragraph">4.	סגמנט ה-Growth לעומת זאת השיג תשואות נמוכות מאלה של כלל השוק, אם כי Small Cap Growth ו-Mid Cap Growth כן עקפו את תשואת השוק בשתי התקופות האחרונות.</p>
+<p class="paragraph">5.	דירוג דומה ניתן לראות גם בשווקים מחוץ לארה"ב (בלשונית השנייה <a target="_blank" href="https://docs.google.com/spreadsheets/d/1BS5a9yzocyCHT3lfQ03CNILlUtvv6kt1/edit?usp=sharing&ouid=102460435024658688368&rtpof=true&sd=true">באקסל</a>).</p>
+<p class="paragraph"><b>המסקנה המרכזית שלי</b> היא שכל פקטור בנפרד הוא לא רע אבל לא Wow, אבל <b>מה שעובד הכי טוב זה השילוב של שני הפקטורים ביחד</b>.</p>
+<p class="paragraph" style="text-align: center;"><img src="../images/style-cap-grid-small-value.png" alt="style-cap-grid-small-value"></p>
+<p class="paragraph">אם נשקיע במניות ערך כמכלול באמצעות מדד של מניות ערך, זה אומר שנשקיע במניות ערך גדולות, בינוניות וקטנות גם יחד (העמודה השמאלית בטבלת ה-style box). עיקר המשקל יינתן למניות הערך הגדולות, אבל אצלן התשואה העודפת פחות משמעותית, ואף לא ממש קיימת ב-30 השנים האחרונות.</p>
+<p class="paragraph">אם נשקיע במניות קטנות/בינוניות כמכלול באמצעות מדד של מניות קטנות/בינוניות, זה אומר שנשקיע במניות קטנות/בינוניות שכוללות גם מניות ערך וגם מניות צמיחה (השורה השנייה והשלישית בטבלת ה-style box). אבל ראינו שהחלק של מניות הצמיחה לא תמיד הניב תשואה עודפת, ובהסתכלות לאורך כל התקופה אף פיגר בתשואות.</p>
+<p class="paragraph">לכן ניתן אמנם לשקול להשקיע במדדים של מניות קטנות/בינוניות, ובמדדים של מניות ערך, אבל הכי כדאי לטעמי להתמקד בשילוב הפקטורים, כלומר במדד של מניות שהן גם זולות וגם קטנות – התא התחתון משמאל בטבלת ה-style box, ואולי גם בזה שמעליו.</p>
+<p class="paragraph">לטעמי זה גם הגיוני להקצות <b>משקל יתר מסוים</b> ל-small/mid cap value בהשוואה למשקלן בתיק השוק העולמי. מדובר בהימור מושכל שמאפשר, בסבירות גבוהה, להגדיל את תשואת התיק. לא בהגזמה, כי לא נרצה לפגוע בפיזור ולהתעלם מהחלק הארי של תיק השוק העולמי, אבל משקל יתר מסוים עושה שכל בעיניי.</p>
+<p class="paragraph">כמה משקל כדאי להקצות לאפיקים הללו? זה כבר תלוי בכם. ניתן לבחור בתיק פשוט שכולל מדד מניות עולמי ותו לא, וזה בסדר גמור. מנגד, ניתן גם להקצות את כל התיק ל-Small value וגם זה בסדר. רק חשוב להבין שבמקרה כזה אנחנו מתמקדים בסגמנט קטן יחסית ותנודתי יותר מכלל השוק, שסביר שיעקוף את תשואת כלל השוק גם בעתיד, אבל אין וודאות שזה אכן יקרה.</p>
+<p class="paragraph">למי שיבחרו לחלק את התיק שלהם בין מדדי מניות גדולות-בינוניות למדדי מניות-ערך קטנות, יש עדיפות לשייך את ה-Asset Classes הרווחיים יותר <b>דווקא לחשבונות פטורים ממס או בעלי הטבת מס משמעותית</b> כמו <a target="_blank" href="http://services.simplifynance.co.il/easy-start-IRA">קה"ש או קופ"ג IRA</a>, כיוון שכך נגדיל בעקיפין את הטבת המס (יותר תשואה תזכה להטבת מס).</p>
+<br>
+<p class="paragraph" style="font-size:22px;">קרנות סל אפשריות להשקעה</p>
+<p class="paragraph">ישנן לא מעט קרנות אמריקאיות שעוקבות אחרי מדדי Small/Mid Cap Value. יחד עם זאת, אנחנו נעדיף להתמקד ב<a target="_blank" href="irish-funds">קרנות איריות</a>, שפטורות ממס עיזבון ובעלות מיסוי מופחת על דיבידנדים.</p>
+<p class="paragraph">לצערנו לא קיימות קרנות איריות שנסחרות בארץ בשקלים שעוקבות אחרי האפיקים הללו, אבל כן קיימות שתי קרנות איריות שעוקבות אחרי מדדי Small Value:</p>
+<p class="paragraph">1.	הקרן <a target="_blank" href="https://www.ssga.com/uk/en_gb/intermediary/etfs/funds/spdr-msci-usa-small-cap-value-weighted-ucits-etf-zprv-gy">USSC/ZPRV</a> של SPDR שעוקבת אחרי מדד MSCI USA Small Cap Value Weighted Index. הקרן נסחרת בגרמניה ביורו תחת הסימול ZPRV וכן בדולרים בלונדון תחת הסימול USSC. <a target="_blank" href="https://www.facebook.com/groups/israel.passive.investors/permalink/1031331801219874/">כאשר רוכשים קרנות סל זרות יש מינימום רכישה גבוה</a>, אבל מי שיפתחו <a target="_blank" href="https://www.facebook.com/groups/israel.passive.investors/permalink/890052802014442/">חשבון מסחר באקסלנס עם העמלות הזולות ביותר בארץ</a>, יוכלו לרכוש את הגרסה הדולרית של הקרן (USSC) בעמלה נמוכה במיוחד.</p>
+<p class="paragraph">2.	הקרן <a target="_blank" href="https://www.ssga.com/uk/en_gb/intermediary/etfs/funds/spdr-msci-europe-small-cap-value-weighted-ucits-etf-zprx-gy">ZPRX</a> של SPDR שעוקבת אחרי מדד MSCI Europe Small Cap Value Weighted Index. הקרן נסחרת בגרמניה ביורו.</p>
+<p class="paragraph">כפי שניתן לראות בלשונית השנייה <a target="_blank" href="https://docs.google.com/spreadsheets/d/1BS5a9yzocyCHT3lfQ03CNILlUtvv6kt1/edit?usp=sharing&ouid=102460435024658688368&rtpof=true&sd=true">באקסל</a>, גם מחוץ לארה"ב האפיק הרווחי ביותר הוא Small Cap Value, וכיוון שפיזור גלובלי הוא חשוב באופן כללי, כדאי לשקול לבצע פיזור גלובלי גם בסגמנט ה-small value של התיק.</p>
+<p class="paragraph">אז אמנם ZPRX עוקבת אחרי סגמנט ה-small value רק באירופה ולא בכל העולם שמחוץ לארה"ב, אבל היא עדיין מוסיפה לנו פיזור גיאוגרפי ומטבעי. בנוסף, השוואה בין מדדי ה-Small Value באירופה, בארה"ב ובכל העולם שמחוץ לארה"ב (ACWI ex US Small Value), מראה שמניות הערך הקטנות באירופה מניבות תשואות דומות לאלה של מניות הערך הקטנות בארה"ב, וגבוהות מאלה של שאר העולם.</p>
+<p class="paragraph" style="text-align: center;"><img src="../images/small-value-comparison.png" alt="small-value-comparison"></p>
+<br>
+<p class="paragraph">שתי קרנות נוספות שניתן לקחת בחשבון הן הקרנות האמריקאיות <a target="_blank" href="https://www.avantisinvestors.com/content/avantis/en/investments/avantis-u-s-small-cap-value-etf.html">AVUV</a> ו-<a target="_blank" href="https://www.avantisinvestors.com/avantis-investments/avantis-international-small-cap-value-etf/">AVDV</a>. הקרנות הללו עוקבות אחרי מניות small cap value בארה"ב ובעולם המפותח שמחוץ לארה"ב בהתאמה, כך שמי שלא מסתפק ב-small cap value בארה"ב ואירופה יכול לבחור ב-AVDV לכיסוי של שאר העולם המפותח.</p>
+<p class="paragraph">מה שעוד מיוחד בקרנות האלה הוא שהן מתייחסות גם לפקטור ה-profitability, כלומר לחברות שהן לא רק קטנות וזולות, אלא גם עם רווחיות גבוהה. גם פקטור ה-profitability הוא פקטור שהוכח כרווחי לאורך השנים, כך שהשילוב שלו <b>אמור</b> להניב תשואות גבוהות יותר מאשר שימוש בפקטור הגודל והערך בלבד. אף אחד לא יודע אם זה אכן יקרה, ויכול להיות שאנחנו גולשים כאן למחוזות של אופטימיזציית יתר, אבל זה מה שעקרונית אמור לקרות.</p>
+<p class="paragraph">בנוגע לקרנות Mid Cap Value – לא מצאנו כלל קרנות איריות שעוקבות אחרי האפיק הזה. קרנות אמריקאיות שיכולות להתאים הן שתי הקרנות של ואנגארד – VOE ו-IVOV. VOE אמנם מעט זולה יותר, אך מאפייני ה-value של IVOV חזקים יותר, כלומר המניות שם הן "יותר ערך" וככל הנראה יניבו תשואה עודפת. גם כאן ייתכן ואנחנו גולשים למחוזות של אופטימיזציית יתר 😊.</p>
 <br>
 <script type='text/javascript' src='//form.ravpage.co.il/fbafa30d95b851a0b3ba5984f76428c55E9FF981' charset='UTF-8'></script>
 <div class="rule2 h3-underline"><hr></div>
